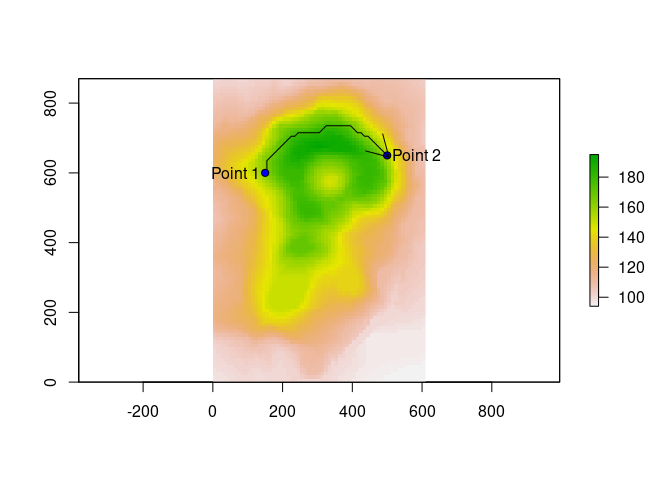
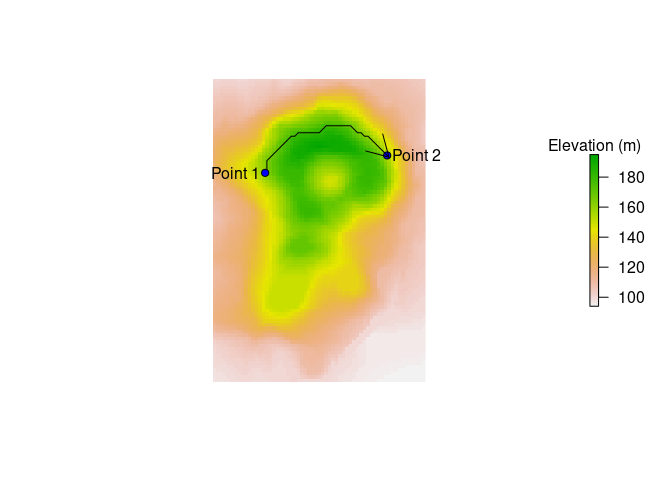
plot formatting

diff --git a/README.md b/README.md
@@ -59,7 +59,7 @@ extent(dem) <- c(xmin = 0, xmax = ncol(dem) * 10, ymin = 0, ymax = nrow(dem) * 1
 point_1 <- c(150, 600)
 point_2 <- c(500, 650)
 
-plot(dem)
+plot(dem, legend.args = list(text = "Elevation (m)"), axes = FALSE, box = FALSE)
 points(point_1[1], point_1[2], col = 1, bg = "blue", pch = 21)
 text(point_1[1], point_1[2], "Point 1", adj = 1.1)
 points(point_2[1], point_2[2], col = 1, bg = "blue", pch = 21)
@@ -110,7 +110,7 @@ our two points:
 ``` r
 p <- tc_shortest_paths(g, from = point_1, to = point_2)[[1]]
 
-plot(dem)
+plot(dem, legend.args = list(text = "Elevation (m)"), axes = FALSE, box = FALSE)
 lines(p[, 1], p[, 2])
 points(point_1[1], point_1[2], col = 1, bg = "blue", pch = 21)
 text(point_1[1], point_1[2], "Point 1", adj = 1.1)
